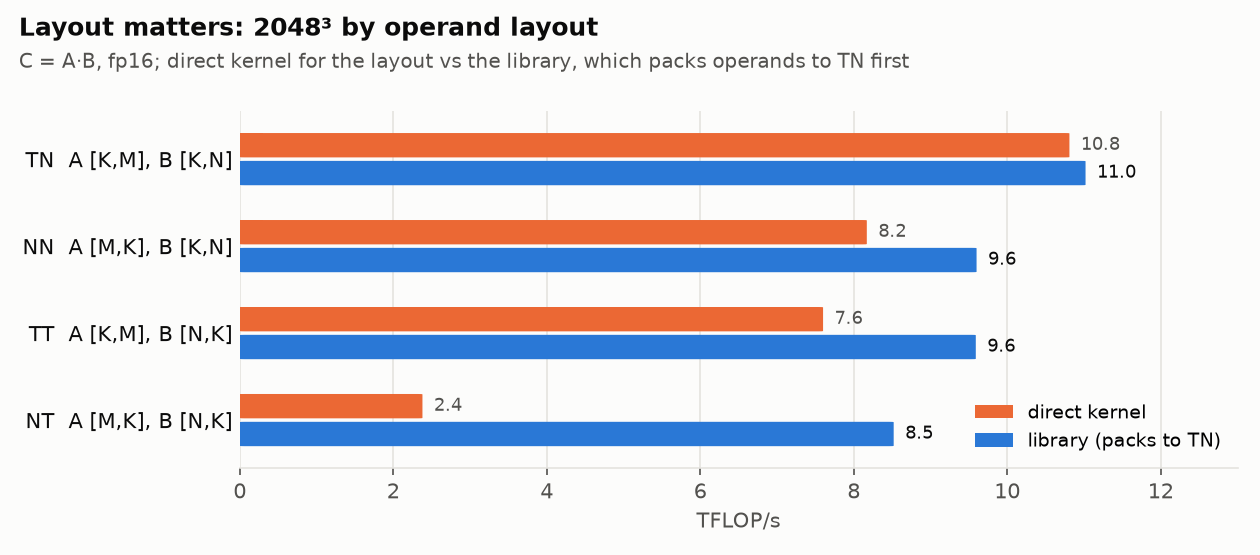
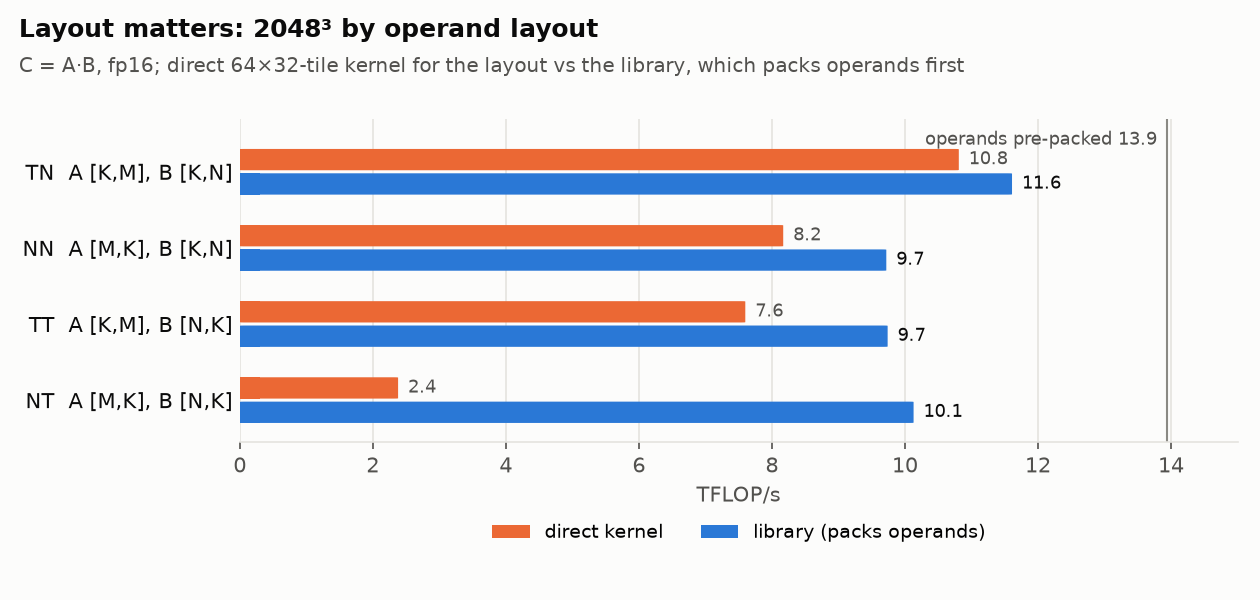
Part 5 post updated: 88% of peak (15.3 TFLOP/s at 4096^3), Step 8 on 64x64 tiles
- BLOG-ABLAS.md: title and TL;DR at 88% (pre-packed 4096^3 15.3 TFLOP/s, 2048^3 13.9; operands as given
  11.6 / 13.4; LLM prefill with weights pre-packed 11.7-13.3); new Step 8 (one 64x64 tile per subgroup,
  64-wide B panels, +28%); cooled library results; thermal throttling and cool_run.sh; corrected 840
  register-bank rule (bank = register parity) and the Turnip allocator patch's +4.3%; bug table row narrowed.
- Charts redrawn (ablas/plots.py): progress with the 64x64 steps; layouts vs the current library
  (NN/TT re-timed at 2048^3: 9.72 / 9.74).
- README.md: Part 5 blurb at 88%.

diff --git a/ablas/plots.py b/ablas/plots.py
@@ -37,17 +37,18 @@ def progress():
     rows = [("Start: Mojo cooperative-matrix kernel (tuned on the 840)", 4.25),
             ("Generated kernels, A stored [M,K] (NN)", 8.17),
             ("A stored [K,M] (TN): 128-byte tile rows", 10.81),
-            ("AdrenoBLAS library call, TN", 11.02),
+            ("Panels, one 64×64 tile per subgroup", 13.94),
             ("4096³, TN", 8.77),
-            ("4096³, operands in panels", 12.78)]
-    fig, ax = plt.subplots(figsize=(8.4, 4.2), dpi=150)
+            ("4096³, panels, 64×32 tiles", 12.78),
+            ("4096³, panels, one 64×64 tile per subgroup", 15.34)]
+    fig, ax = plt.subplots(figsize=(8.4, 4.6), dpi=150)
     y = list(range(len(rows)))[::-1]
     bars(ax, y, [v for _, v in rows], BLUE, 0.5)
     for yi, (_, v) in zip(y, rows):
         ax.text(v + 0.2, yi, f"{v:.2f}", va="center", color=INK, fontsize=9)
     ax.set_yticks(y, [r for r, _ in rows])
-    ax.axhline(1.5, color=GRID, lw=0.8)
-    frame(ax, 19, "fp16 GEMM on the Adreno 850, step by step", "2048³ unless marked; every kernel checked against an fp32 reference")
+    ax.axhline(2.5, color=GRID, lw=0.8)
+    frame(ax, 19, "fp16 GEMM on the Adreno 850, step by step", "2048³ unless marked; library calls with operands pre-packed where noted; every call checked against fp32")
     ax.set_ylim(-0.6, len(rows) - 0.1)
     ref(ax, 8.36, "fp16 ALU peak 8.36", len(rows) - 0.4, "right")
     ref(ax, 17.5, "matrix peak 17.5", len(rows) - 0.4, "right")
@@ -57,8 +58,8 @@ def progress():
 def layouts():
     lays = ["TN  A [K,M], B [K,N]", "NN  A [M,K], B [K,N]", "TT  A [K,M], B [N,K]", "NT  A [M,K], B [N,K]"]
     direct = [10.81, 8.17, 7.60, 2.38]
-    packed = [11.02, 9.60, 9.59, 8.52]
-    fig, ax = plt.subplots(figsize=(8.4, 3.7), dpi=150)
+    packed = [11.61, 9.72, 9.74, 10.13]
+    fig, ax = plt.subplots(figsize=(8.4, 4.0), dpi=150)
     y = [3, 2, 1, 0]
     bars(ax, [v + 0.16 for v in y], direct, ORANGE, 0.28)
     bars(ax, [v - 0.16 for v in y], packed, BLUE, 0.28)
@@ -66,10 +67,13 @@ def layouts():
         ax.text(d + 0.15, yi + 0.16, f"{d:.1f}", va="center", color=INK2, fontsize=8.5)
         ax.text(p + 0.15, yi - 0.16, f"{p:.1f}", va="center", color=INK, fontsize=8.5)
     ax.set_yticks(y, lays)
-    frame(ax, 13, "Layout matters: 2048³ by operand layout", "C = A·B, fp16; direct kernel for the layout vs the library, which packs operands to TN first")
-    ax.set_ylim(-0.55, 3.55)
+    frame(ax, 15, "Layout matters: 2048³ by operand layout", "C = A·B, fp16; direct 64×32-tile kernel for the layout vs the library, which packs operands first")
+    ax.set_ylim(-0.55, 3.7)
     h1 = plt.Rectangle((0, 0), 1, 1, fc=ORANGE); h2 = plt.Rectangle((0, 0), 1, 1, fc=BLUE)
-    ax.legend([h1, h2], ["direct kernel", "library (packs to TN)"], loc="lower right", frameon=False, fontsize=9)
+    ax.axvline(13.94, color=REF, lw=1)
+    ax.text(13.79, 3.42, "operands pre-packed 13.9", color=INK2, fontsize=8.5, va="center", ha="right")
+    ax.legend([h1, h2], ["direct kernel", "library (packs operands)"], loc="upper center", bbox_to_anchor=(0.5, -0.2),
+              ncol=2, frameon=False, fontsize=9)
     fig.tight_layout(rect=(0, 0, 1, 0.84))
     fig.savefig(OUT / "ablas-layouts.png")
 

diff --git a/BLOG-ABLAS.md b/BLOG-ABLAS.md
@@ -1,4 +1,4 @@
-# AdrenoBLAS: fp16 GEMM at 73% of a Phone GPU's Matrix Peak
+# AdrenoBLAS: fp16 GEMM at 88% of a Phone GPU's Matrix Peak
 
 *Part 5 of [Bringing PyTorch LLMs to a Mid-Range Adreno GPU with IREE](https://github.com/adityaGoCT/iree-adreno-genai-tuner/blob/main/BLOG.md) (Part 4: [A Native GPU Target, and Llama Prefill on the Matrix Units](BLOG-COOPMAT.md)) · November 21, 2026 · Aditya*
 
@@ -8,15 +8,15 @@ I set out to build a GEMM library for Adreno GPUs in the spirit of cuBLAS and ro
 
 The target was an **Adreno 850** on a Qualcomm Device Cloud reference phone (SM8975, Android 17, 1.45 GHz). I measured its peaks first: 4.41 TFLOP/s for fp32, 8.36 for fp16 on the ALUs, and **17.5 TFLOP/s for fp16 on its matrix hardware**, which Vulkan exposes as cooperative matrices. The best fp16 GEMM I had at the start, a Mojo kernel tuned on the Adreno 840, ran at 4.25 TFLOP/s on it: 24% of that peak.
 
-AdrenoBLAS now runs fp16 GEMM at **11.0 TFLOP/s at 2048³ and 12.8 at 4096³ (73% of the matrix peak)**. LLM prefill shapes run at 11 to 12 TFLOP/s, and all four operand layouts (NN, NT, TN, TT) are covered. Every call is checked against an fp32 reference on the phone. The library is a kernel generator, an on-device tuner, a catalogue builder and a 300-line C runtime.
+AdrenoBLAS now runs fp16 GEMM at **13.9 TFLOP/s at 2048³ and 15.3 at 4096³ (88% of the matrix peak)** with operands in its packed panel format, and at 11.6 and 13.4 for operands as given. LLM prefill shapes run at 11.7 to 13.3 TFLOP/s with the weights packed once, and all four operand layouts (NN, NT, TN, TT) are covered. Every call is checked against an fp32 reference on the phone. The library is a kernel generator, an on-device tuner, a catalogue builder and a 300-line C runtime.
 
-On assembly: on the 850 it can be **read but not written**. The driver's compiled code sits in its pipeline cache and Mesa's disassembler decodes it, except four instruction words that drive the matrix unit. But a checksum rejects any edited code. On an Adreno 840 through Mesa's Turnip driver, hand-written assembly runs, and it beats both compilers' fp16 GEMM by about 10%.
+On assembly: on the 850 it can be **read but not written**. The driver's compiled code sits in its pipeline cache and Mesa's disassembler decodes it, except four instruction words that drive the matrix unit. But a checksum rejects any edited code. On an Adreno 840 through Mesa's Turnip driver, hand-written assembly runs and beats both compilers' fp16 GEMM by about 10%; teaching its main trick to Turnip's register allocator recovers 4.3%.
 
 Three lessons carried the most weight:
 
-1. **On this GPU, layout is the kernel.** Each cooperative-matrix load wants long contiguous rows. A stored [K, M] beats A stored [M, K] by 1.3x at 2048³, and PyTorch's `Linear` layout runs at 2.4 TFLOP/s against 10.8. At 4096³, packing operands into contiguous tiles took the same kernel from 8.8 to 12.8 TFLOP/s.
+1. **On this GPU, layout is the kernel.** Each cooperative-matrix load wants long contiguous rows. A stored [K, M] beats A stored [M, K] by 1.3x at 2048³, and PyTorch's `Linear` layout runs at 2.4 TFLOP/s against 10.8. At 4096³, packing operands into contiguous tiles took the same kernel from 8.8 to 12.8 TFLOP/s, and one 64 x 64 tile per subgroup took it to 15.3.
 2. **Benchmark the benchmark.** My first fp16 peak said 1,000 TFLOP/s, and my first matrix peak said 66. The compiler had deleted one loop and hoisted the other. Only kernels that load fresh data every iteration gave honest numbers.
-3. **Map the driver, then route around it.** Seven stock-driver bugs shaped the design: hangs, compiler crashes, wrong data and a 2x slowdown from Vulkan specialization constants. The generator never emits the bad patterns, and the runtime rewrites the SPIR-V it hands to the driver.
+3. **Map the driver, then route around it.** Seven stock-driver bugs shaped the design: hangs, compiler crashes, wrong data and a 2x slowdown from Vulkan specialization constants. The generator never emits the bad patterns, and the runtime rewrites the SPIR-V it hands to the driver. One bug turned out narrower than it first looked, and routing around it was worth +28%.
 
 The code companion is [`ablas/`](ablas/) (the library) and [`asm/`](asm/) (the peak and assembly probes) in this repo.
 
@@ -127,11 +127,11 @@ The 840 has no matrix unit: its cooperative-matrix path peaks at 7.35 TFLOP/s, b
 | stock driver's compiler (best kernel) | 3.39 |
 | Turnip's compiler | 3.33 |
 
-The win came from a register-file rule that neither compiler respects. A multiply-add whose three register sources all sit in the same component (`.x/.x/.x`) issues at one third of the rate; any two matching cost nothing. Between 5% and 21% of the multiply-adds in Turnip's GEMM loops have that form. With the loads stripped out, the hand-written loop runs at 90% of peak against Turnip's 56%. End to end the gain shrinks to 10%, because the kernel then waits on operands. An 8 x 8 register tile at peak needs about 256 bytes per clock per SP, while the texture path delivers about 120 and shared memory about 107.
+The win came from a register-file rule that Turnip's compiler doesn't respect (the stock compiler's code wasn't inspected). A multiply-add whose three register sources sit in the same bank issues at about one third of the rate. There are two banks, split by the parity of the register's scalar index: `.x` and `.z` in one, `.y` and `.w` in the other (for fp16, the low and high halves). Half the multiply-adds in Turnip's fp16 GEMM loops have that form. With the loads stripped out, the hand-written loop runs at 90% of peak against Turnip's 56%. End to end the gain shrinks to 10%, because the kernel then waits on operands. An 8 x 8 register tile at peak needs about 256 bytes per clock per SP, while the texture path delivers about 120 and shared memory about 107. Taught to Turnip's register allocator ([`asm/mesa/turnip-ra-bank.patch`](asm/mesa/turnip-ra-bank.patch)), the rule gives +4.3% geometric mean over 22 GEMM kernels, up to +18.5%, with every result still correct.
 
 ### The verdict that shaped the library
 
-On the 850 the matrix path is reachable from ordinary SPIR-V. The fresh-A probe shows the stock compiler sustaining 17.5 TFLOP/s in a tight loop. So the 76% gap of the starting kernel was not code generation. It was data movement: which tiles, in which layout, from which memory path. That can be fixed from SPIR-V, so AdrenoBLAS is built there. Assembly stays a research track: decoding the four matrix words, and the 840's bank rule as a fix for Turnip's register allocator.
+On the 850 the matrix path is reachable from ordinary SPIR-V. The fresh-A probe shows the stock compiler sustaining 17.5 TFLOP/s in a tight loop. So the 76% gap of the starting kernel was not code generation. It was data movement: which tiles, in which layout, from which memory path. That can be fixed from SPIR-V, so AdrenoBLAS is built there. Assembly stays a research track: decoding the four matrix words, and the 840's bank rule, now a Turnip register-allocator patch.
 
 ## Step 3: A kernel template and an on-device sweep
 
@@ -172,7 +172,7 @@ The generator already took layouts, so the test was one flag. A stored transpose
 
 ![Layout matters: 2048³ by operand layout](docs/img/ablas-layouts.png)
 
-The worst case is NT, which is how PyTorch stores a `Linear` weight ([N, K]) next to activations ([M, K]). Its B tiles become 32 columns of 32 bytes, and it runs at 2.4 TFLOP/s. The library therefore never runs NT directly: it transposes into the TN layout first (Step 6).
+The worst case is NT, which is how PyTorch stores a `Linear` weight ([N, K]) next to activations ([M, K]). Its B tiles become 32 columns of 32 bytes, and it runs at 2.4 TFLOP/s. The library therefore never runs NT directly: it packs NT operands first (Steps 6 and 8).
 
 Several standard tricks did nothing or made things worse. Each was a sweep option, measured the same way:
 
@@ -193,7 +193,7 @@ Seven behaviours of this driver build (compiler E17.52.10.04) shaped the generat
 | two dependent `coopMatMulAdd` into one accumulator in a loop body (unrolling K) | GPU hang, `VK_ERROR_DEVICE_LOST` | one multiply per accumulator per iteration |
 | adding two cooperative matrices (`c0 + c1`; also `ma + ma` on int8 tiles) | compiler segfault | never adds whole matrices; element-wise when needed |
 | fp32 accumulator converted to fp16 for the store | compiler segfault | fp16 accumulation (wider inside the unit) |
-| 64-wide tiles fed fresh data each step | GPU hang | N = 32 tiles |
+| two or more 64-wide (N = 64) accumulators per subgroup | GPU hang | one 64 x 64 tile per subgroup (Step 8) |
 | `coopMatLoad` from a `uint` or `uvec4` shared array | wrong data | `f16vec4` shared arrays |
 | alternating accumulators with 4+ tiles | `vkCreateComputePipelines` returns -13 | not in the search space |
 | M, N, K as specialization constants | 2x slower, and one kernel hangs | constants rewritten into the SPIR-V (Step 6) |
@@ -210,7 +210,7 @@ The shared-memory one shows how these were found. Staged kernels returned errors
 
 The fix keeps the 128-bit global loads and writes them into an `f16vec4` array, two bitcasts per load.
 
-Repros for all seven, and an estimate of what each fix is worth, are in [`urgent_matter.md`](urgent_matter.md). The short version: the 64-wide tile hang and the unrolling hang stand between these kernels and an estimated 13.5 to 16 TFLOP/s.
+Repros for all seven, and an estimate of what each fix is worth, are in [`urgent_matter.md`](urgent_matter.md). The short version: one 64 x 64 tile per subgroup routed around most of the 64-wide hang (Step 8, +28% measured), and the unrolling hang and the two-tile hang are what remain between these kernels and the peak.
 
 ## Step 6: From kernels to a library
 
@@ -283,24 +283,42 @@ coopMatLoad(a0_0, a, (((row0 + 0u) / 64u) * (4096u / 16u) + (k + 0u) / 16u) * 10
 
 Panels made 4096³ faster than 2048³. Nine different tile configurations landed between 11.1 and 12.5 TFLOP/s, so the layout, not one lucky configuration, did the work. In the library, panels are a fourth operand kind, `ABLAS_OP_P`. `ablas_pack_a` and `ablas_pack_b` pack an operand once: K-major sources go through a 128-bit re-tiling copy, and the others are transposed straight into panels. That's the path for LLM weights. For GEMMs of 2³⁵ multiply-adds and up, the runtime also packs unpacked operands into panels on the fly.
 
+## Step 8: One 64 x 64 tile per subgroup
+
+The bug table above first said 64-wide tiles hang the GPU. That came from the peak probe, which keeps B in registers across iterations, and I had extrapolated it to GEMM without testing. A sweep with `--nt 64` at 2048³ (TN) told a narrower story: all 8 configurations with **one** 64 x 64 accumulator per subgroup passed, and all 16 with **two** lost the device. The best single-tile kernel ran at 11.40 TFLOP/s against 10.81 for the best 64 x 32 kernel.
+
+A 64 x 64 tile is what the load arithmetic asked for: one A load and one B load per multiply, the ratio at which the probe sustained 17.5 TFLOP/s. Its B tile is 16 x 64, so B rows become 128 bytes, the change that was worth 1.3x for A in Step 4. To give those tiles contiguous storage too, B panels became 64 wide, `[N/64][K/16][16][64]` (layout `Q`; 32-wide tiles read it as half a panel row):
+
+```glsl
+// layout "Q": tile (k/16, n/64) of B starts at ((n/64) * (K/16) + k/16) * 1024, stride 64 inside
+coopMatLoad(b0_0, b, (((col0 + 0u) / 64u) * (2048u / 16u) + (k + 0u) / 16u) * 1024u + (col0 + 0u) % 64u, 64,
+            gl_CooperativeMatrixLayoutRowMajor);
+```
+
+| kernel (tuning harness, TFLOP/s) | 2048³ | 4096³ |
+| --- | --- | --- |
+| TN, 64 x 32 tiles | 10.81 | 9.37 |
+| panels, 64 x 32 tiles | 11.38 | 12.49 |
+| **panels, one 64 x 64 tile per subgroup** | **13.82** | **14.12** |
+
+Every 64 x 64 configuration beat every 64 x 32 one. Against the TN kernel the library used before, 2048³ gained 28%, the low end of the +20 to 35% that [`urgent_matter.md`](urgent_matter.md) had estimated from load ratios. In the library, `ablas_pack_b` now writes 64-wide panels, and NT calls from 2³¹ multiply-adds go to panels, since they transpose both operands on either path (NT 2048³: 10.1 vs 8.7 TFLOP/s).
+
 ## Results
 
-Measured through the library with [`ablas_test`](ablas/ablas_test.c): GPU timestamps, warm-up, then the best of five runs of back-to-back calls. Every call was checked against an fp32 CPU reference on 1,024 sampled elements. The percentage is the share of the measured 17.5 TFLOP/s peak.
+Measured through the library with [`ablas_test`](ablas/ablas_test.c), one shape at a time with [`cool_run.sh`](ablas/cool_run.sh), which waits for the GPU to cool to 45 °C with no thermal cap first. Timing uses GPU timestamps, warm-up, then the best of five runs of back-to-back calls. Every call was checked against an fp32 CPU reference on 1,024 sampled elements. The percentage is the share of the measured 17.5 TFLOP/s peak. "Pre-packed" operands went through `ablas_pack_a`/`ablas_pack_b` once, before the timed calls.
 
 | call (layout, M x N x K) | TFLOP/s | of peak |
 | --- | --- | --- |
-| panels (pre-packed), 4096³ | **12.78** | **73%** |
-| TN, 4096³ (packed to panels on the fly) | 10.74 | 61% |
-| NN / NT / TT, 4096³ (packed on the fly) | 10.27 / 9.81 / 9.80 | 56-59% |
-| TN, 2048³ | 11.02 | 63% |
-| TN, 1024³ | 12.42 | 71% |
-| TN, 768 x 1536 x 1024 (untuned shape) | 13.39 | 77% |
-| NN / TT / NT, 2048³ (packed to TN) | 9.60 / 9.59 / 8.52 | 49-55% |
-| LLM prefill, TN: 512 x 2048 x 2048 / 2048 x 512 x 2048 | 11.06 / 12.04 | 63-69% |
-| LLM prefill, TN: 512 x 8192 x 2048 / 512 x 2048 x 8192 | 11.30 / 11.49 | 65-66% |
-| LLM prefill, pre-packed panels: 512 x 8192 x 2048 / 2048 x 512 x 2048 | 11.23 / 12.16 | 64-69% |
+| pre-packed, 4096³ | **15.34** | **88%** |
+| TN / NT input, 4096³ (packed to panels in the call) | 13.42 / 13.20 | 75-77% |
+| pre-packed, 2048³ | 13.94 | 80% |
+| TN / NN / TT / NT input, 2048³ | 11.61 / 9.72 / 9.74 / 10.13 | 56-66% |
+| pre-packed, 1024³ | 13.30 | 76% |
+| LLM prefill, weights pre-packed: 512 x 2048 x 2048 / 512 x 8192 x 2048 / 512 x 2048 x 8192 | 11.70 / 12.69 / 13.31 | 67-76% |
+| LLM prefill, both pre-packed: same shapes | 13.70 / 13.24 / 16.08 | 76-92% |
+| pre-packed, 2048 x 512 x 2048 | 15.65 | 89% |
 
-Shapes must be multiples of 64 (M) and 32 (N and K). New shapes compile their pipeline in about 150 ms on first use. Accuracy follows the 850's fp16 accumulation: relative error 3e-3 to 8e-3 of the largest output against fp32, growing with K.
+Shapes must be multiples of 64 (M) and 32 (N and K); the panel path needs N to be a multiple of 64. New shapes compile their pipeline in about 150 ms on first use. Accuracy follows the 850's fp16 accumulation: relative error 3e-3 to 1e-2 of the largest output against fp32, growing with K.
 
 ## What did not work
 
@@ -314,6 +332,7 @@ Shapes must be multiples of 64 (M) and 32 (N and K). New shapes compile their pi
 | shared-memory staging | slower than direct loads (7.8 vs 10.8) once correct |
 | software prefetch, grouped order, 1,024-thread workgroups | all slower |
 | a register-only transpose | 15-20 GB/s: scattered 16-byte stores |
+| two 64 x 64 accumulators per subgroup (64 x 128 of C) | GPU hang |
 
 ## Measuring on a phone you rent by the hour
 
@@ -322,6 +341,7 @@ The Qualcomm Device Cloud phone is reached through an SSH tunnel to the session 
 - **Clock checks.** Sampling `/sys/class/kgsl/kgsl-3d0/gpuclk` during a run put the GPU at its 1.45 GHz top clock for 34 of 40 samples. A peak measured at a lower clock would understate every percentage in this post.
 - **Crash isolation.** One configuration per process, in a shell loop on the phone. A kernel that loses the device costs one line of results.
 - **Driver archaeology.** The pipeline-cache blobs and Mesa's disassembler run on the phone itself, so nothing large crosses the tunnel.
+- **Thermal checks.** After about 40 minutes of sweeps the phone capped the GPU at 636 to 1,126 MHz, and a library run came out up to 2x low. [`cool_run.sh`](ablas/cool_run.sh) now runs one shape at a time and waits until the GPU (`gpuss-0`) is at most 45 °C with no thermal cap.
 
 The tunnel pushed data at 4 to 9 MB/s. Shape data for 4096³ is 128 MB with its reference, so each new shape cost about 30 seconds of push before any GPU time.
 
@@ -340,18 +360,20 @@ python3 gen_coopmat_load.py && ./run_list.sh manifest_cml.txt spv_cml/variants.t
 # tune, build the catalogue, run the library
 cd ../../ablas
 python3 sweep.py 2048 2048 2048 --la T --lb N      # one shape and layout; results/ and kernels/
-python3 sweep.py 4096 4096 4096 --la P --lb P      # panels
+python3 sweep.py 4096 4096 4096 --la P --lb Q --nt 32 64   # panels, 64-wide B panels and tiles
 python3 build_lib.py                                # results/ -> ablas_kernels.h
 $NDK_CC -O2 -I$VK -o build/ablas_test ablas_test.c ablas.c -ldl -lm
-adb push build/ablas_test /data/local/tmp/ablas/ && adb shell /data/local/tmp/ablas/ablas_test
+adb push build/ablas_test cool_run.sh /data/local/tmp/ablas/
+adb shell 'cd /data/local/tmp/ablas && ./cool_run.sh "P P 4096 4096 4096" "T N 2048 2048 2048"'
 ```
 
 `ablas_test P P 4096 4096 4096 T N 2048 2048 2048 ...` runs any list of shapes. `P` operands are packed once with `ablas_pack_a`/`ablas_pack_b` before the timed calls.
 
 ## What's next
 
-- **The last 27%.** The best kernel issues 1.5 cooperative loads per multiply, against one in the 17.5 TFLOP/s probe, and the driver hangs on every way I tried to amortize them. Decoding the four matrix instruction words would show what the compiler emits per step, and whether a different tile shape issues fewer loads.
+- **The last 12%.** Pre-packed 4096³ reaches 15.3 of 17.5 TFLOP/s with a single 64 x 64 tile per subgroup. More reuse per load needs two tiles per subgroup or an unrolled K loop, and the driver hangs on both. Decoding the four matrix instruction words would show what the compiler emits per step.
+- **NN and TT below 2³⁵ multiply-adds** still pack to TN (9.7 TFLOP/s at 2048³) while pre-packed operands run at 13.9: packing them into panels may pay earlier than the current threshold.
 - **fp32 accumulation**, through an element-wise conversion that sidesteps the compiler crash.
 - **Edges, batches and epilogues:** shapes that aren't tile multiples, strided-batched GEMM, and bias or activation fused into the store.
 - **Decode:** GEMV and int4/int8 weight kernels for batch-1 LLM decode, where the matrix units don't help and memory bandwidth (83 GB/s here) decides.
-- **The Adreno 840:** the same library with ALU kernels. The register-bank rule found with hand-written assembly belongs in Turnip's register allocator, so compiled code gets the gain too.
+- **The Adreno 840:** the same library with ALU kernels, compiled by Turnip with the register-allocator patch (+4.3%), and the patch upstream in Mesa.

diff --git a/README.md b/README.md
@@ -25,8 +25,8 @@ Vulkan SPIR-V target, KHR cooperative matrices from Mojo, and Llama 3.2 1B on a 
 (Adreno 840): a 431-token prompt in 0.63 s on the matrix units instead of 17.7 s, decode at 42 ms/token, and
 with 4-bit weights 13-15 ms/token.
 
-Part 5: **[AdrenoBLAS: fp16 GEMM at 73% of a Phone GPU's Matrix Peak](BLOG-ABLAS.md)**: a cuBLAS-style GEMM
-library for the Adreno 850's matrix units ([`ablas/`](ablas/)): 11.0 TFLOP/s at 2048³ and 12.8 at 4096³ against a
+Part 5: **[AdrenoBLAS: fp16 GEMM at 88% of a Phone GPU's Matrix Peak](BLOG-ABLAS.md)**: a cuBLAS-style GEMM
+library for the Adreno 850's matrix units ([`ablas/`](ablas/)): 13.9 TFLOP/s at 2048³ and 15.3 at 4096³ (88%) against a
 measured 17.5 peak, what assembly can and can't do on the 850 and the 840 ([`asm/`](asm/)), and seven driver bugs
 with estimated gains if fixed ([`urgent_matter.md`](urgent_matter.md)).
 
